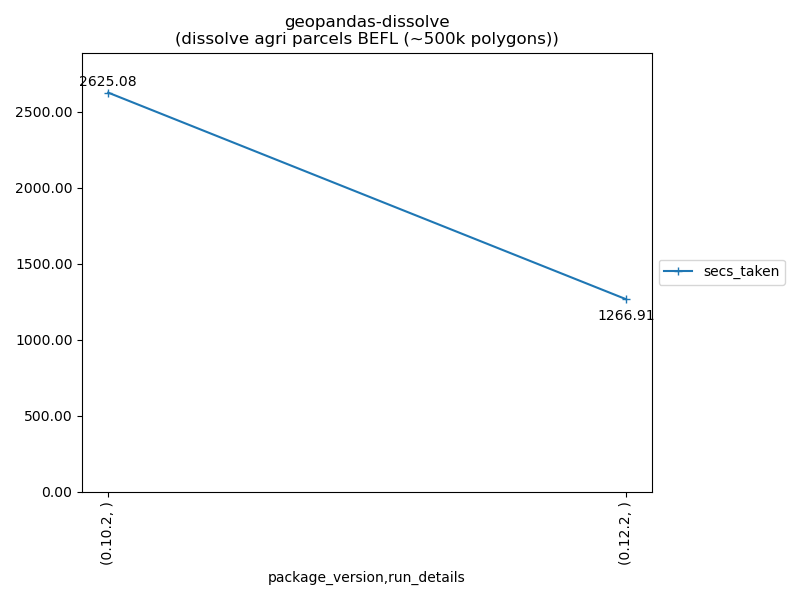
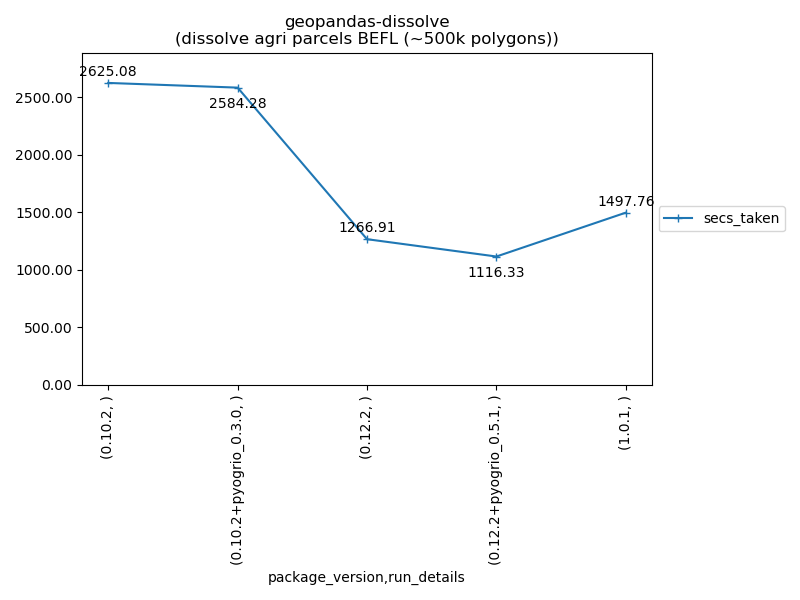
RUN: Update benchmarks for geofileops 0.9.1 and geopandas 1.0.1 and remove seperate geopandas-pyogrio benchmarks (#40)

diff --git a/reporter.py b/reporter.py
@@ -256,14 +256,16 @@ def save_chart(
             if not np.array_equal(img_new, img_old):
                 shutil.move(tmp_output_path, output_path)
 
+    plt.close(fig)
+
     # Open if wanted
     if open_output_file is True:
         os.startfile(output_path)
 
 
 if __name__ == "__main__":
-    # results_dir = Path(__file__).resolve().parent / "results_vector_ops"
-    results_dir = Path(__file__).resolve().parent / "results_zonalstats"
+    results_dir = Path(__file__).resolve().parent / "results_vector_ops"
+    # results_dir = Path(__file__).resolve().parent / "results_zonalstats"
     results_path = results_dir / "benchmark_results.csv"
     output_dir = results_dir
     generate_reports(results_path, output_dir)

diff --git a/run_benchmarks_vector_ops.py b/run_benchmarks_vector_ops.py
@@ -9,7 +9,6 @@ def main():
             benchmarks_subdir="benchmarks_vector_ops",
             results_subdir="results_vector_ops",
             # modules=["benchmarks_geofileops"],
-            # modules=["benchmarks_geopandas_pyogrio"],
             modules=["benchmarks_geopandas"],
             # modules=["benchmarks_dask_geopandas"],
             # functions=["buffer"],

diff --git a/benchmarks_vector_ops/benchmarks_geopandas.py b/benchmarks_vector_ops/benchmarks_geopandas.py
@@ -218,7 +218,7 @@ def intersection(tmp_dir: Path) -> RunResult:
     return result
 
 
-def symmetric_difference_complexpolys_agri(tmp_dir: Path) -> RunResult:
+def symdif_complexpolys_agri(tmp_dir: Path) -> RunResult:
     # Init
     function_name = inspect.currentframe().f_code.co_name  # type: ignore[union-attr]
 
